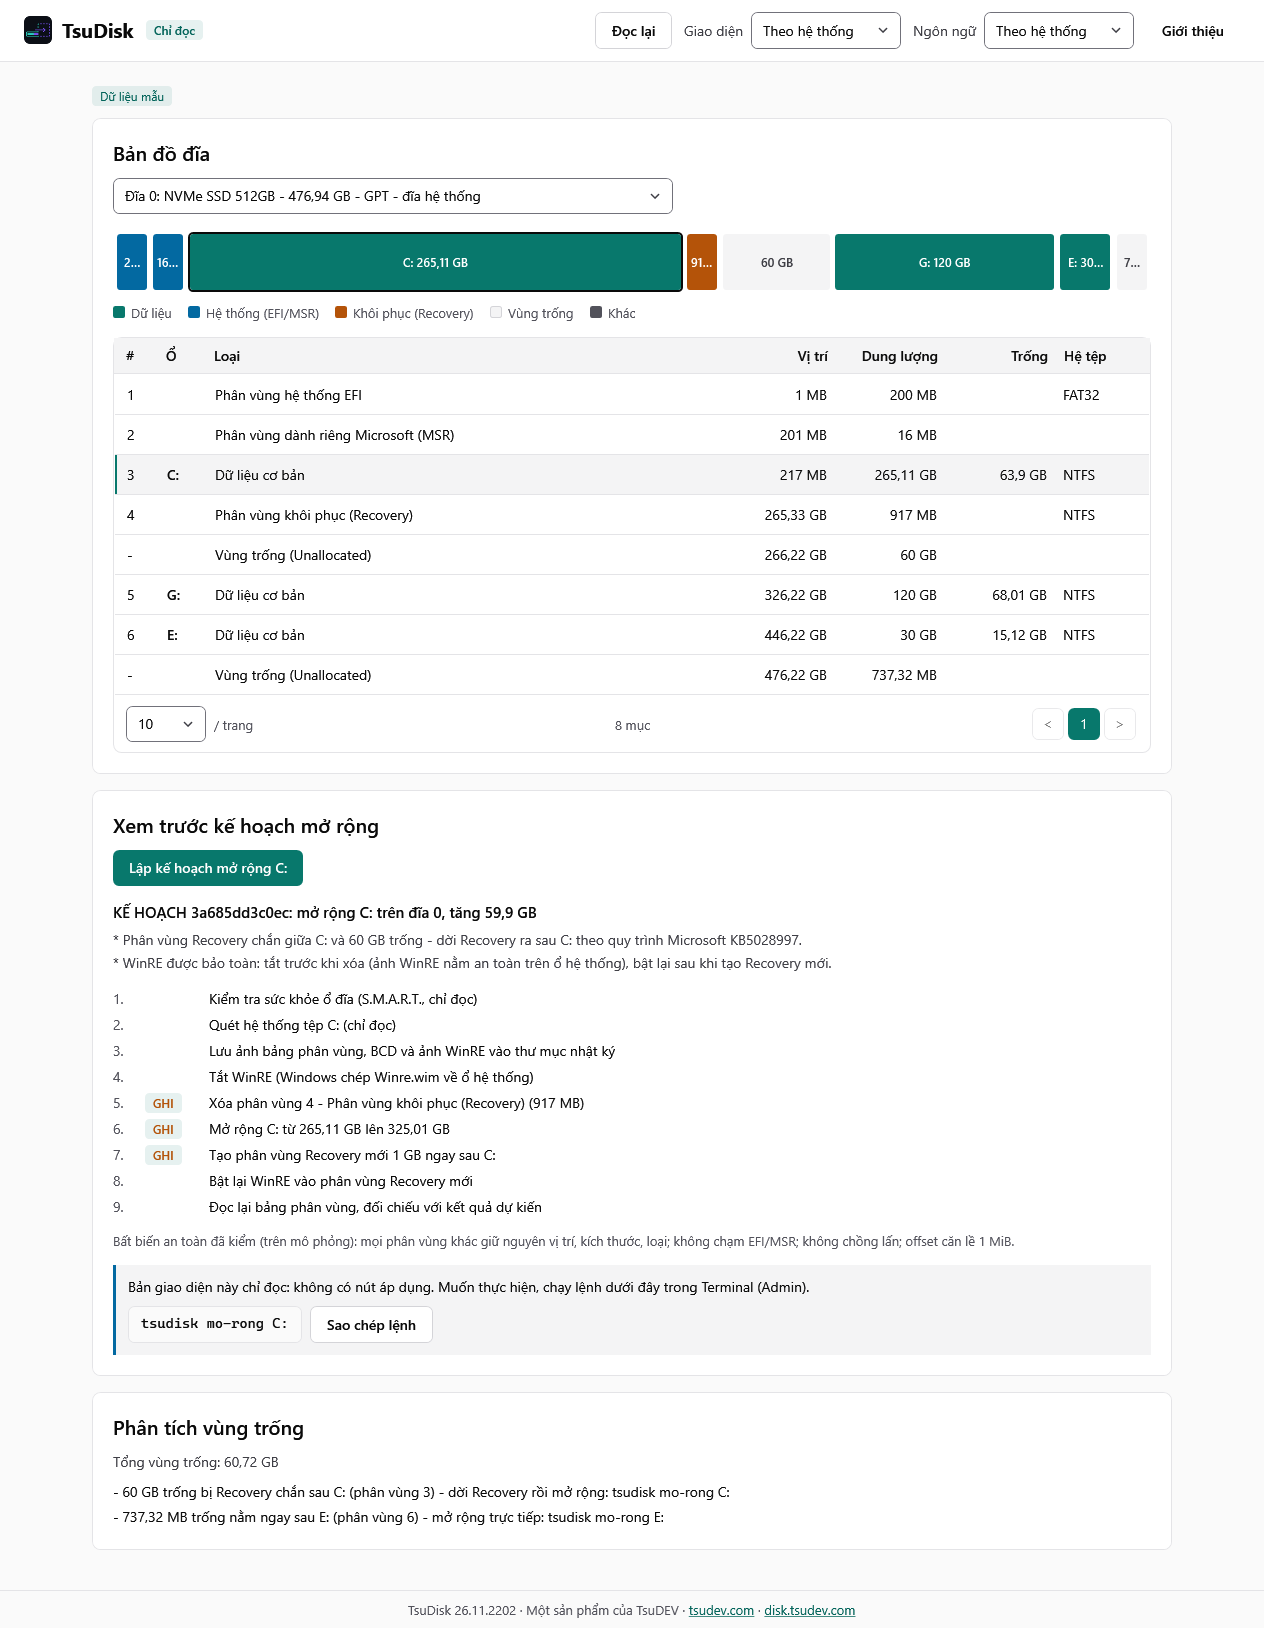
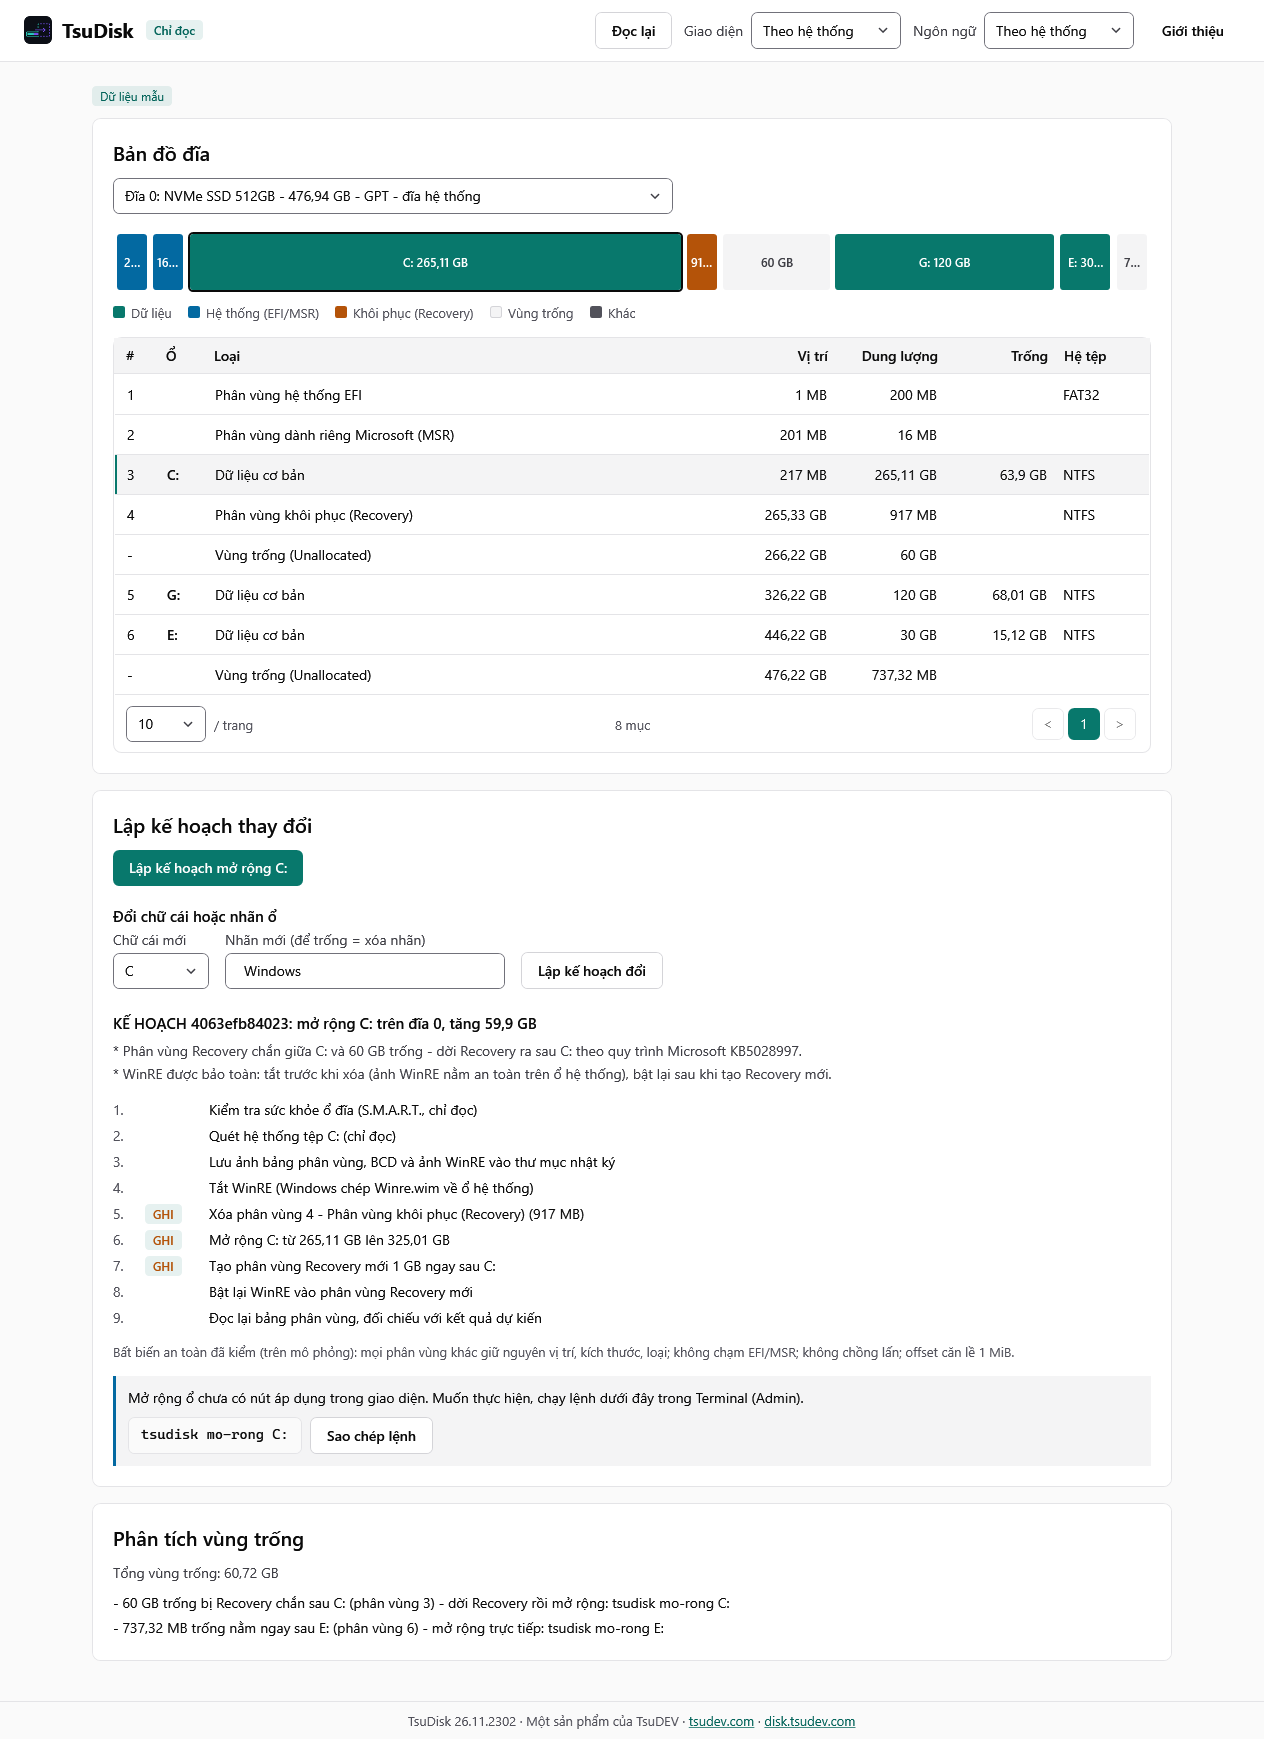
release: 26.11.2302 - giao diện đổi chữ cái/nhãn ổ (ADR-0009) (#68)
- CHANGELOG 26.11.2302, VersionPrefix; README + trang Tải về: GUI không còn chỉ đọc (đổi tên cần quản trị, xác nhận hai lần).
- Ảnh GUI chụp lại (có ô đổi tên). ADR-0009: ghi đã thử 17/17 trên Windows 11 máy dev với quyền quản trị (VHDX).

diff --git a/website/src/lib/noi-dung.ts b/website/src/lib/noi-dung.ts
@@ -134,7 +134,7 @@ export interface BanPhatHanh { tag: string; phienBan: string; ngay: string; url:
 export const LOAI_GOI: { ma: string; tieuDe: string; moTa: string; mau: RegExp }[] = [
   { ma: 'setup', tieuDe: 'Bộ cài đặt', moTa: 'Cài vào Program Files, thêm tsudisk vào PATH, có mục gỡ cài đặt.', mau: /^tsudisk_.+_x64-setup\.exe$/ },
   { ma: 'portable', tieuDe: 'Bản di động', moTa: 'Một tệp tsudisk.exe chạy thẳng, không cài, không cần .NET. Mở Terminal (Admin) ở thư mục chứa tệp.', mau: /^tsudisk_.+_(windows-)?x64-portable\.exe$/ },
-  { ma: 'gui', tieuDe: 'Giao diện cửa sổ (xem trước, chỉ đọc)', moTa: 'Một tệp tsudisk-gui.exe chạy thẳng: bản đồ đĩa, phân tích vùng trống, xem trước kế hoạch. Chưa có nút áp dụng; thao tác ghi đĩa vẫn dùng tsudisk.exe.', mau: /^tsudisk-gui_.+_windows-x64-portable\.exe$/ },
+  { ma: 'gui', tieuDe: 'Giao diện cửa sổ (xem trước)', moTa: 'Một tệp tsudisk-gui.exe chạy thẳng: bản đồ đĩa, phân tích vùng trống, xem trước kế hoạch, đổi chữ cái/nhãn ổ. Các thao tác ghi khác vẫn dùng tsudisk.exe.', mau: /^tsudisk-gui_.+_windows-x64-portable\.exe$/ },
 ];
 const PHU: { tieuDe: string; moTa: string; mau: RegExp }[] = [
   { tieuDe: 'SBOM', moTa: 'Danh mục thành phần phần mềm (SPDX) của bản phát hành.', mau: /sbom(\.spdx)?\.json$/ },

diff --git a/CHANGELOG.md b/CHANGELOG.md
@@ -2,12 +2,14 @@
 
 Mới nhất ở trên. Phiên bản theo khuôn `YY.M.DDNN` (`.standards/docs/VERSIONING.md` mục 2).
 
-## [Chưa phát hành]
+## [26.11.2302] - 23/11/2026
 
 - Giao diện cửa sổ: đổi chữ cái và/hoặc nhãn ổ dữ liệu ngay trong ứng dụng (cần quyền quản trị; có nút "Mở lại với
   quyền quản trị"). Phải xác nhận hai lần: bấm "Áp dụng" rồi gõ lại chữ cái ổ. Dùng chung đường chạy với lệnh
   `tsudisk doi-ten` (kiểm lại đĩa trước mỗi bước ghi, tự hoàn tác khi lỗi, nhật ký trong `%ProgramData%\TsuDisk\nhat-ky`).
   Mở rộng ổ trong giao diện vẫn chỉ xem trước kèm lệnh.
+- Kiểm thử: thao tác đổi tên trong giao diện được kiểm tự động trên ổ ảo VHDX ở mỗi thay đổi mã (bấm qua giao diện
+  bằng UI Automation: hủy, gõ sai, gõ đúng, dữ liệu nguyên vẹn).
 
 ## [26.11.2301] - 23/11/2026
 

diff --git a/README.md b/README.md
@@ -32,8 +32,9 @@ scoop bucket add tsudev https://github.com/tsudev-org/scoop-bucket
 scoop install tsudev/tsudisk
 ```
 
-Giao diện cửa sổ (bản xem trước, chỉ đọc): tải thêm `tsudisk-gui_<phiên bản>_windows-x64-portable.exe` ở cùng trang.
-Cửa sổ hiện bản đồ đĩa, phân tích vùng trống và kế hoạch mở rộng kèm lệnh `tsudisk` tương ứng; chưa có nút áp dụng.
+Giao diện cửa sổ (bản xem trước): tải thêm `tsudisk-gui_<phiên bản>_windows-x64-portable.exe` ở cùng trang. Cửa sổ
+hiện bản đồ đĩa, phân tích vùng trống, kế hoạch mở rộng kèm lệnh `tsudisk` tương ứng, và đổi được chữ cái/nhãn ổ dữ
+liệu ngay trong ứng dụng (cần quyền quản trị, xác nhận hai lần). Mở rộng ổ vẫn chạy bằng lệnh `tsudisk`.
 
 ## Cách dùng
 

diff --git a/docs/adr/0009-giao-dien-ap-dung-doi-ten.md b/docs/adr/0009-giao-dien-ap-dung-doi-ten.md
@@ -1,6 +1,8 @@
 # ADR-0009: Giao diện áp dụng thao tác đầu tiên - đổi chữ cái/nhãn ổ
 
 - **Trạng thái**: Chấp nhận - 23/11/2026 (chủ dự án duyệt "GUI bước 2" trong phiên 8)
+- **Phát hành**: 26.11.2302 - trước đó E2E GUI đạt 17/17 trên CI và trên Windows 11 máy dev chạy quyền quản trị
+  (ổ ảo VHDX, chủ dự án ủy quyền 23/11/2026).
 - **Liên quan**: ADR-0008 (GUI bản đầu chỉ đọc, mục "Việc tiếp theo" 2), ADR-0002 (mọi thao tác là một `Plan`,
   bất biến, hoàn tác), `RenamePlanner` (rủi ro Thấp: không đổi hình học phân vùng). Bổ sung, không thay ADR-0008.
 
